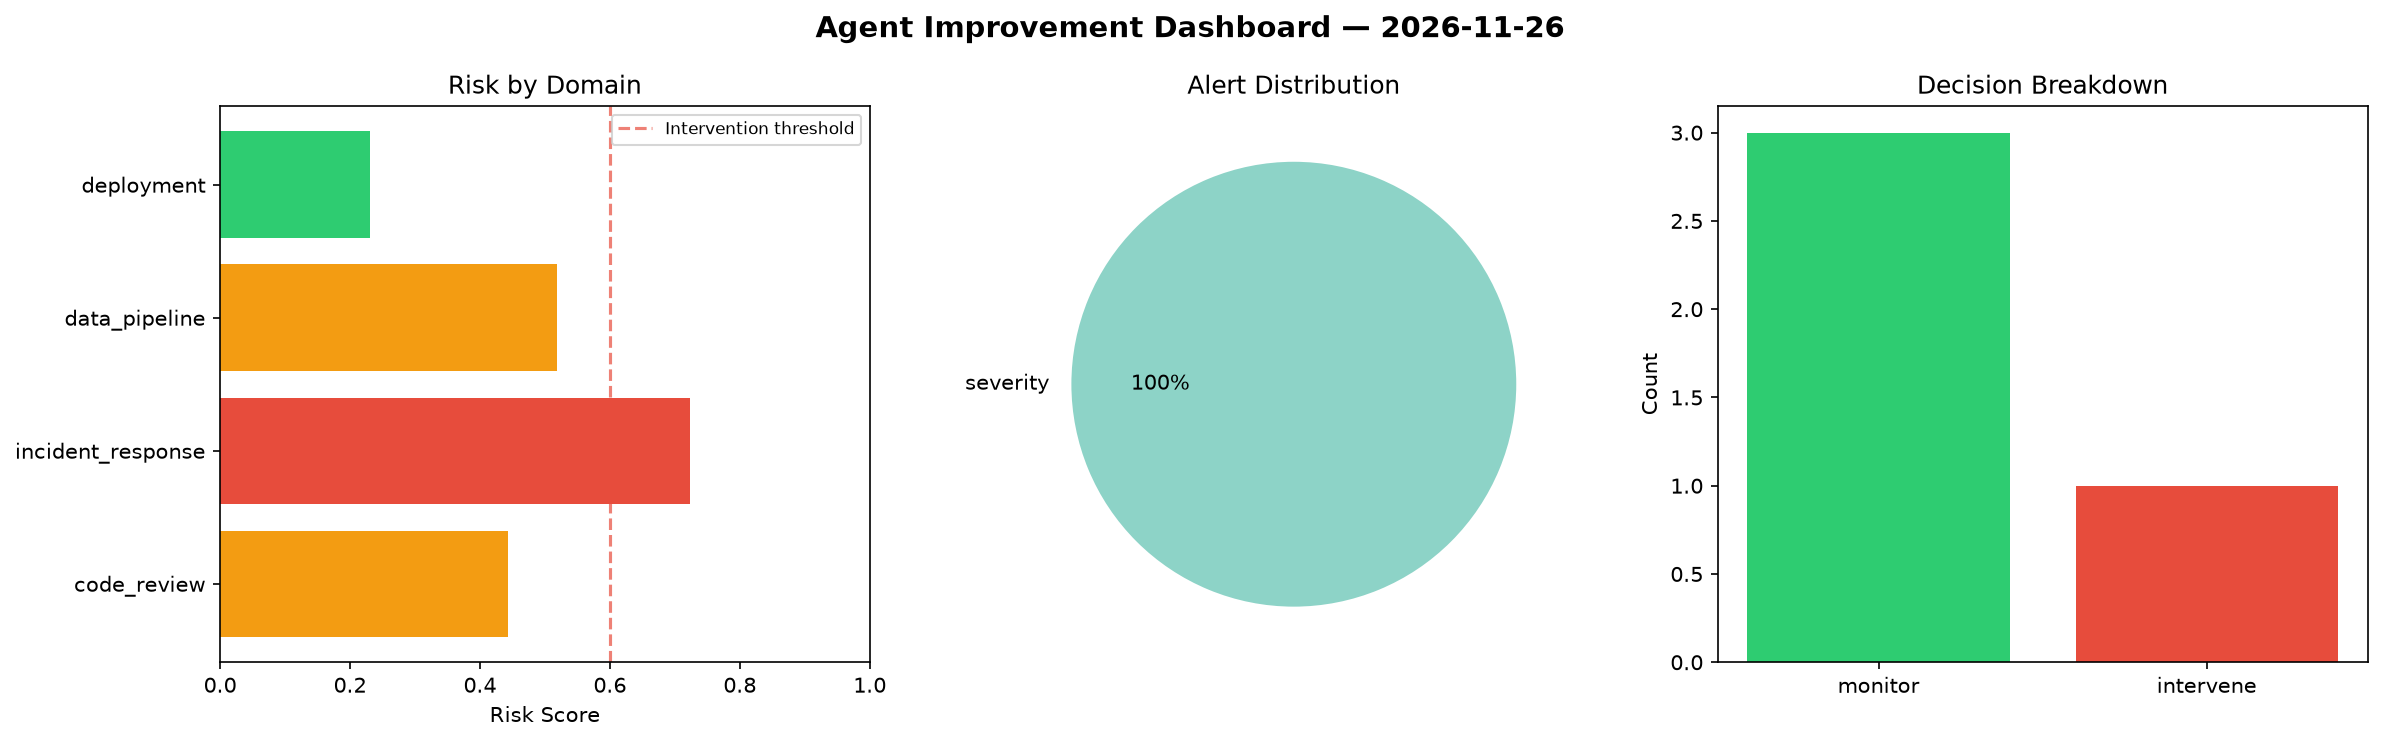
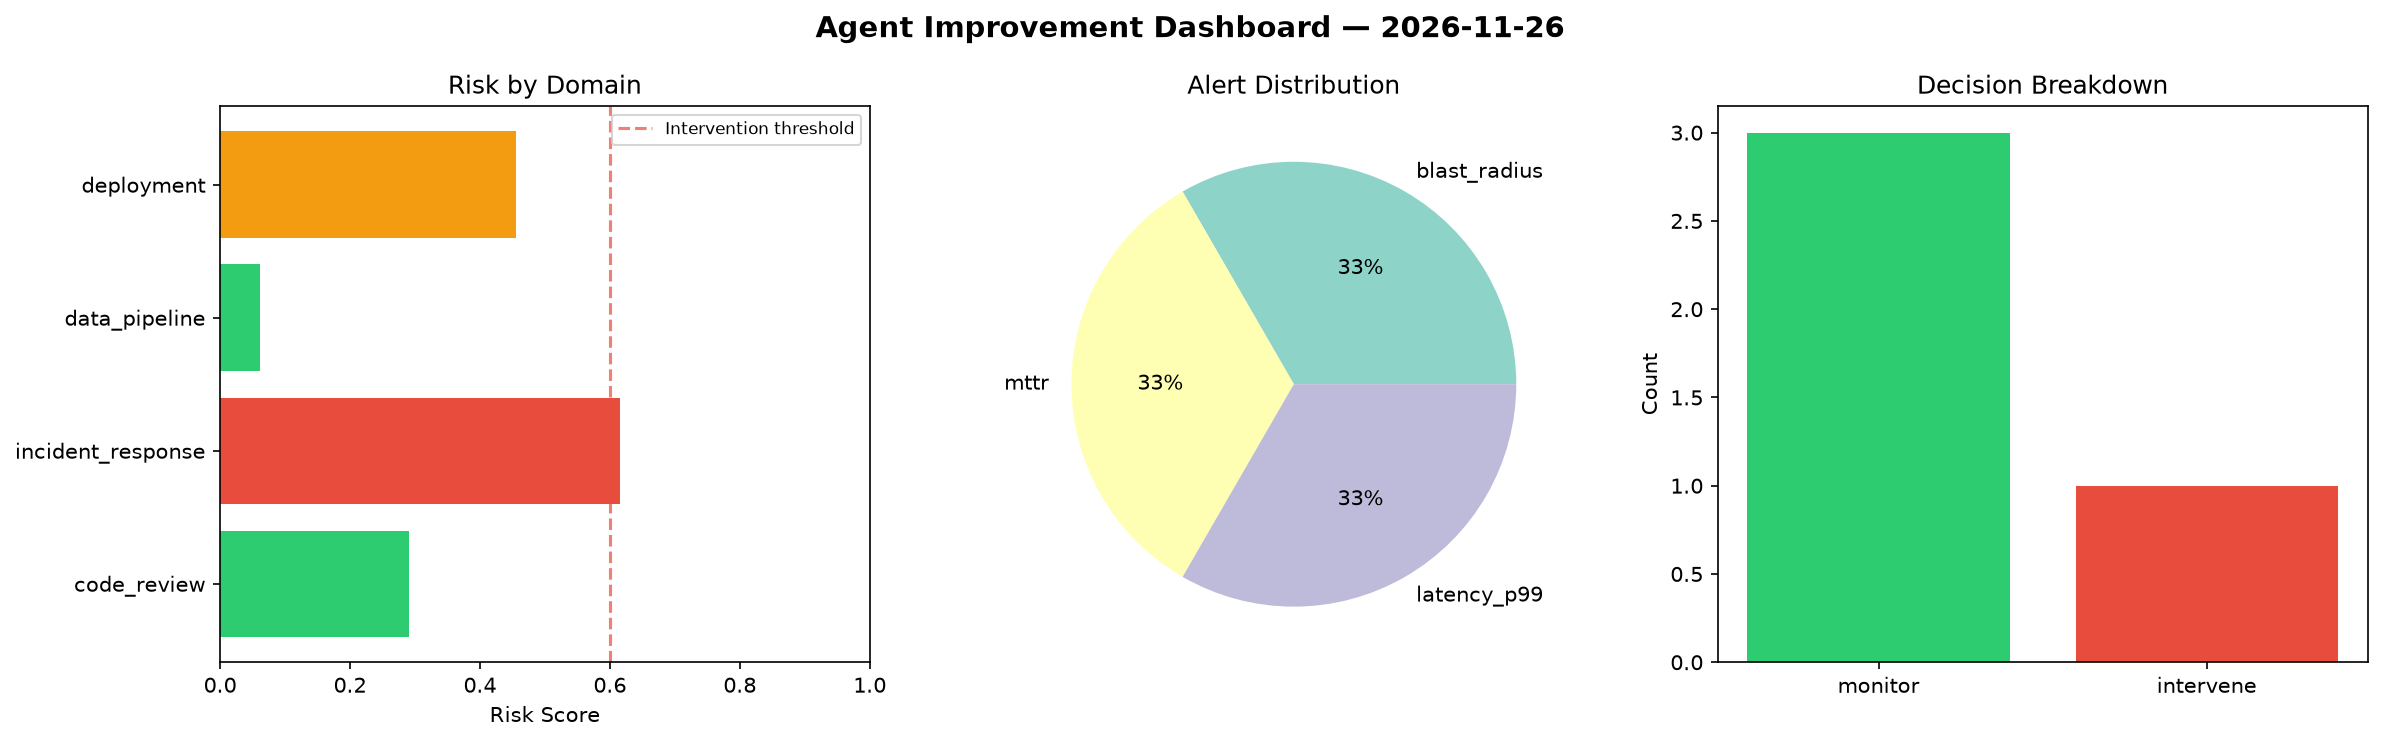
agent-improvement: daily cycle 2026-11-26T22:59

diff --git a/logs/2026-11-26.md b/logs/2026-11-26.md
@@ -1,6 +1,6 @@
 # Agent Improvement Report — 2026-11-26
 
-**Cycle ID:** `534145e8` | **Avg Risk:** 0.479 | **Interventions:** 1/4
+**Cycle ID:** `13f57071` | **Avg Risk:** 0.356 | **Interventions:** 1/4
 
 ![Dashboard](2026-11-26_dashboard.png)
 
@@ -10,18 +10,18 @@
 
 | Domain | Risk Score | Decision | Alerts |
 |--------|-----------|----------|--------|
-| code_review | 0.4433 | monitor | none |
-| incident_response | 0.7238 | intervene | severity |
-| data_pipeline | 0.5185 | monitor | none |
-| deployment | 0.2304 | monitor | none |
+| code_review | 0.2913 | monitor | none |
+| incident_response | 0.6158 | intervene | blast_radius, mttr |
+| data_pipeline | 0.0614 | monitor | none |
+| deployment | 0.4554 | monitor | latency_p99 |
 
 ## Delta vs Yesterday
 
 | Domain | Today | Yesterday | Change |
 |--------|-------|-----------|--------|
-| code_review | 0.4433 | 0.3497 | 📈 26.8% |
-| incident_response | 0.7238 | 0.7684 | 📉 -5.8% |
-| data_pipeline | 0.5185 | 0.665 | 📉 -22.0% |
-| deployment | 0.2304 | 0.237 | 📉 -2.8% |
+| code_review | 0.2913 | 0.3497 | 📉 -16.7% |
+| incident_response | 0.6158 | 0.7684 | 📉 -19.9% |
+| data_pipeline | 0.0614 | 0.665 | 📉 -90.8% |
+| deployment | 0.4554 | 0.237 | 📈 92.2% |
 
-**Refinement:** `{'adjustment': 'maintain', 'trend': 'improving', 'window': 4}`
+**Refinement:** `{'adjustment': 'tighten_thresholds', 'trend': 'degrading', 'window': 4}`
